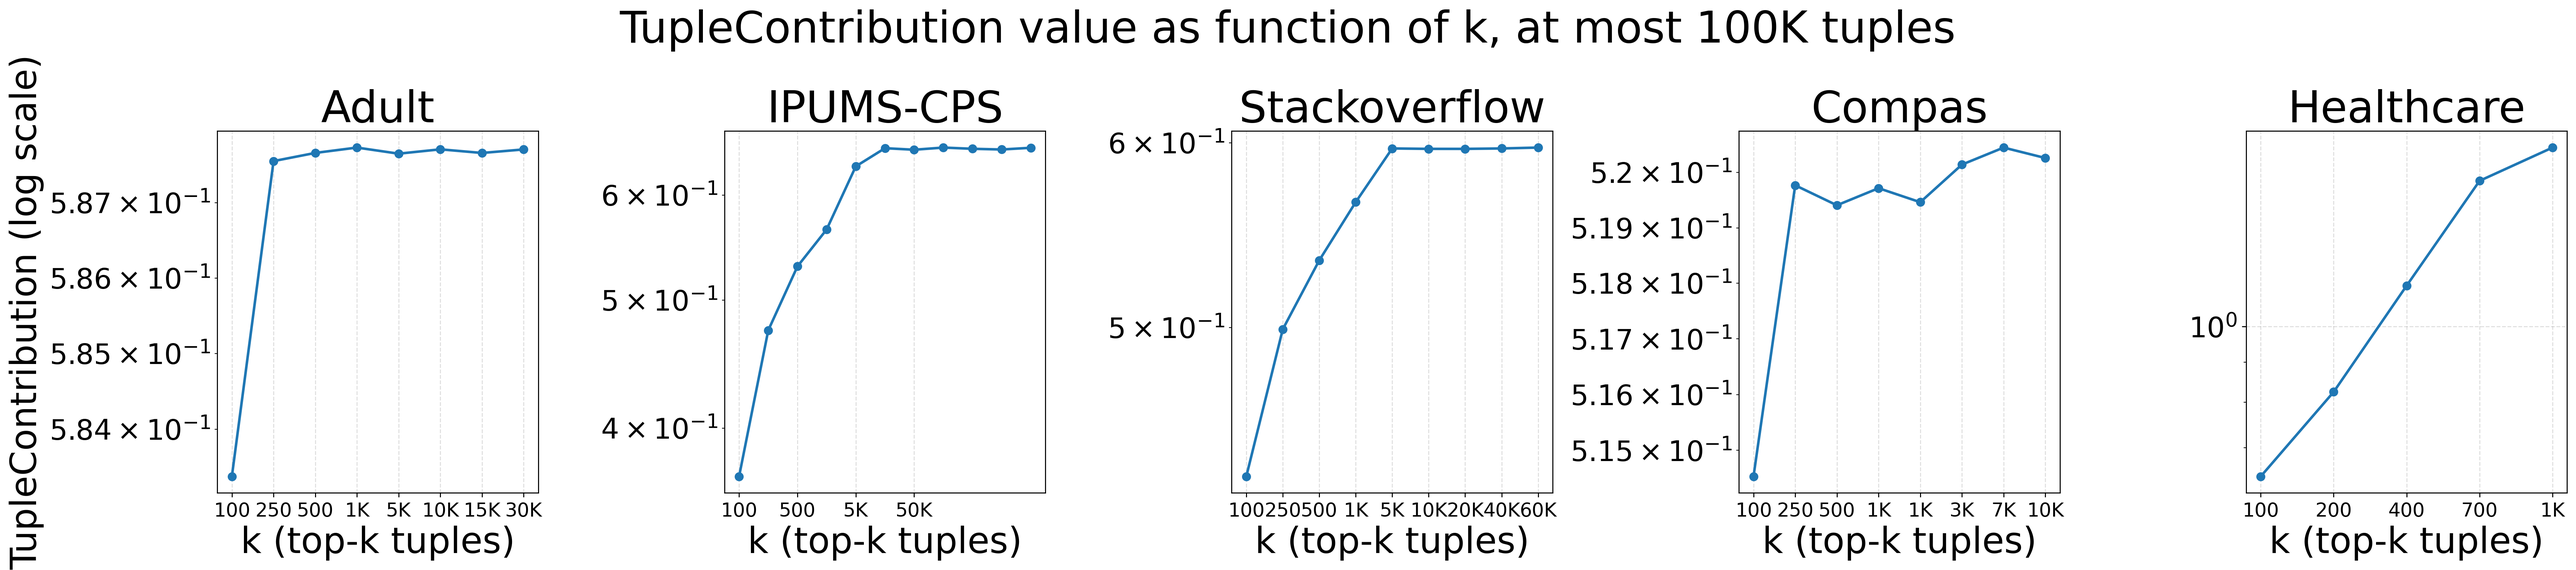
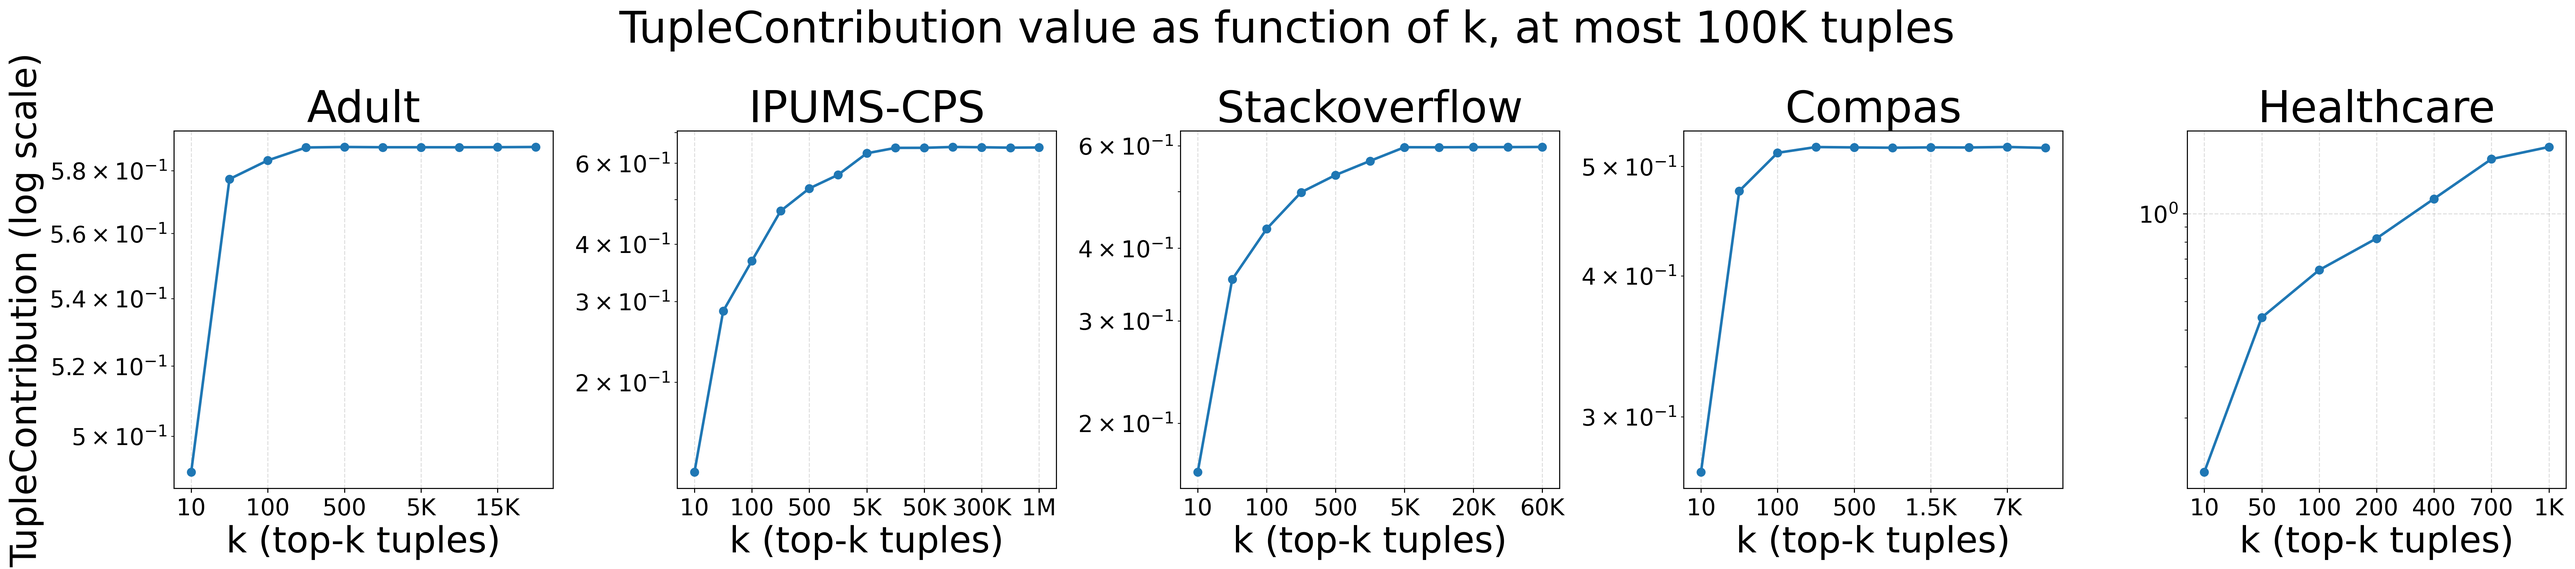
Increased k coverage

diff --git a/main.py b/main.py
@@ -1,6 +1,7 @@
 import os
 import time
 from concurrent.futures import ThreadPoolExecutor
+from math import floor
 from typing import Optional, Tuple, List
 
 import numpy as np
@@ -1767,7 +1768,7 @@ def run_experiment_4(
 
 def run_experiment_5(
     num_tuples=100000,
-    repetitions=10,
+    repetitions=1,
     epsilon=None,
     outfile="plots/experiment5.png",
 ):
@@ -1784,8 +1785,8 @@ def run_experiment_5(
     plt.rcParams.update({
         "axes.titlesize": 34,
         "axes.labelsize": 28,
-        "xtick.labelsize": 15,
-        "ytick.labelsize": 22,
+        "xtick.labelsize": 17,
+        "ytick.labelsize": 18,
         "figure.titlesize": 34,
     })
 
@@ -1847,15 +1848,21 @@ def run_experiment_5(
         tick_labels = []
         for k in ks_this_dataset:
             if k >= 1_000_000:
-                tick_labels.append(f"{k // 1_000_000}M")
+                label = k / 1_000_000
+                label = label if label - floor(label) == 0.5 else int(label)
+                tick_labels.append(f"{label}M")
             elif k >= 1_000:
-                tick_labels.append(f"{k // 1_000}K")
+                label = k / 1_000
+                label = label if label - floor(label) == 0.5 else int(label)
+                tick_labels.append(f"{label}K")
             else:
                 tick_labels.append(str(k))
-        if ds_name == "IPUMS-CPS":
-            show_idx = [0, 2, 4, 6] if len(ks_this_dataset) >= 7 else list(range(len(ks_this_dataset)))
+        if ds_name != "Healthcare":
+            show_idx = [i for i in range(0, len(tick_labels), 2)]
+            if len(tick_labels) - 1 not in show_idx:
+                show_idx.append(len(tick_labels) - 1)
             ax.set_xticks(np.array(show_idx))
-            ax.set_xticklabels([tick_labels[i] for i in show_idx])
+            ax.set_xticklabels([tick_labels[i] for i in range(0, len(tick_labels), 2)])
         else:
             ax.set_xticks(xs)
             ax.set_xticklabels(tick_labels)
@@ -1880,7 +1887,7 @@ def run_experiment_5(
 
 def run_experiment_6(
     num_tuples=100000,
-    repetitions=50,
+    repetitions=1,
     epsilon=1.0,
     outfile="plots/experiment6.png",
 ):
@@ -1901,8 +1908,8 @@ def run_experiment_6(
     plt.rcParams.update({
         "axes.titlesize": 28,
         "axes.labelsize": 24,
-        "xtick.labelsize": 15,
-        "ytick.labelsize": 16,
+        "xtick.labelsize": 17,
+        "ytick.labelsize": 18,
     })
 
     fig, axes = plt.subplots(1, 5, figsize=(28, 6), sharey=False)
@@ -1965,30 +1972,42 @@ def run_experiment_6(
             stats["min"].append(min_v)
             stats["max"].append(max_v)
 
-        x = np.arange(len(ks))
+        xs = np.arange(len(ks))
         means = np.array(stats["mean"])
         lows  = np.array(stats["min"])
         highs = np.array(stats["max"])
-        line, = ax.plot(x, means, marker="o", linewidth=2,
+        line, = ax.plot(xs, means, marker="o", linewidth=2,
                         label="TupleContribution L1 error")
         mask = ~np.isnan(means) & ~np.isnan(lows) & ~np.isnan(highs)
         if mask.any():
             ax.fill_between(
-                x[mask],
+                xs[mask],
                 lows[mask],
                 highs[mask],
                 alpha=0.2,
                 color=line.get_color(),
                 linewidth=0,
             )
-        full_tick_labels = [str(k) if k % 1000 != 0 else f"{k // 1000}K" for k in ks]
-        if ds_name == "IPUMS-CPS":
-            show_idx = [0, 2, 4, 6] if len(ks) >= 7 else list(range(len(ks)))
-            ax.set_xticks(np.array(show_idx))
-            ax.set_xticklabels([full_tick_labels[i] for i in show_idx])
+        tick_labels = []
+        if k >= 1_000_000:
+            label = k / 1_000_000
+            label = label if label - floor(label) == 0.5 else int(label)
+            tick_labels.append(f"{label}M")
+        elif k >= 1_000:
+            label = k / 1_000
+            label = label if label - floor(label) == 0.5 else int(label)
+            tick_labels.append(f"{label}K")
         else:
-            ax.set_xticks(x)
-            ax.set_xticklabels(full_tick_labels)
+            tick_labels.append(str(k))
+        if ds_name != "Healthcare":
+            show_idx = [i for i in range(0, len(tick_labels), 2)]
+            if len(tick_labels) - 1 not in show_idx:
+                show_idx.append(len(tick_labels) - 1)
+            ax.set_xticks(np.array(show_idx))
+            ax.set_xticklabels([tick_labels[i] for i in range(0, len(tick_labels), 2)])
+        else:
+            ax.set_xticks(xs)
+            ax.set_xticklabels(tick_labels)
         ax.set_xlabel("k (top-k tuples)")
         ax.set_yscale('log')
         ax.set_title(ds_name)
@@ -2176,16 +2195,16 @@ def run_experiment_7(
 
 
 if __name__ == "__main__":
-    create_plot_0()
-    create_plot_1()
-    create_plot_2()
-    create_plot_3()
-    create_plot_4()
-    plot_legend()
-    run_experiment_1()
-    run_experiment_2()
-    run_experiment_3()
-    run_experiment_4()
+    # create_plot_0()
+    # create_plot_1()
+    # create_plot_2()
+    # create_plot_3()
+    # create_plot_4()
+    # plot_legend()
+    # run_experiment_1()
+    # run_experiment_2()
+    # run_experiment_3()
+    # run_experiment_4()
     run_experiment_5()
     run_experiment_6()
-    run_experiment_7()
+    # run_experiment_7()
